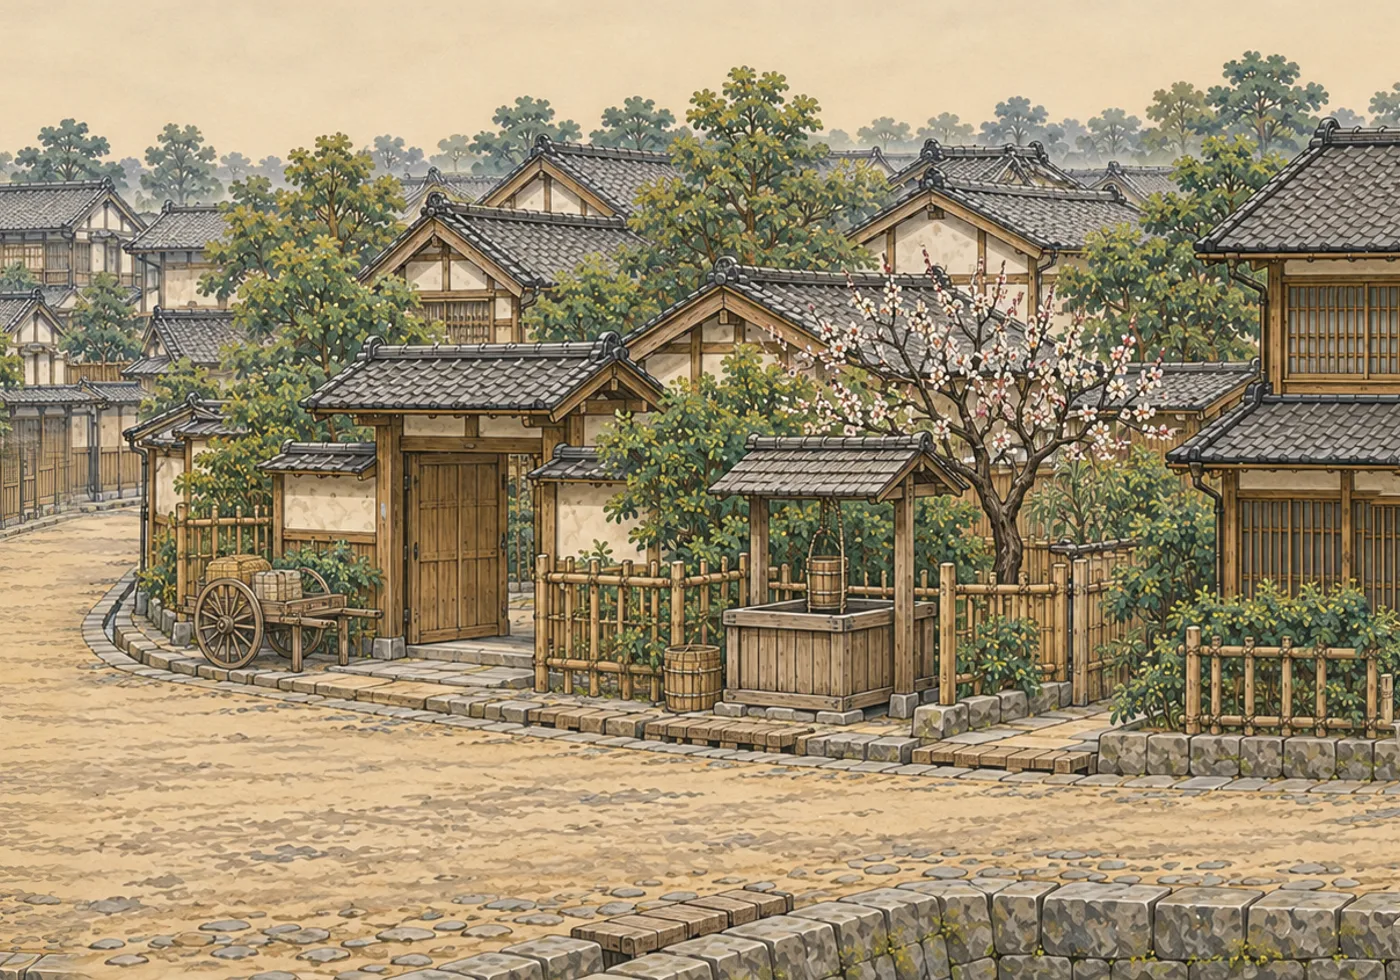
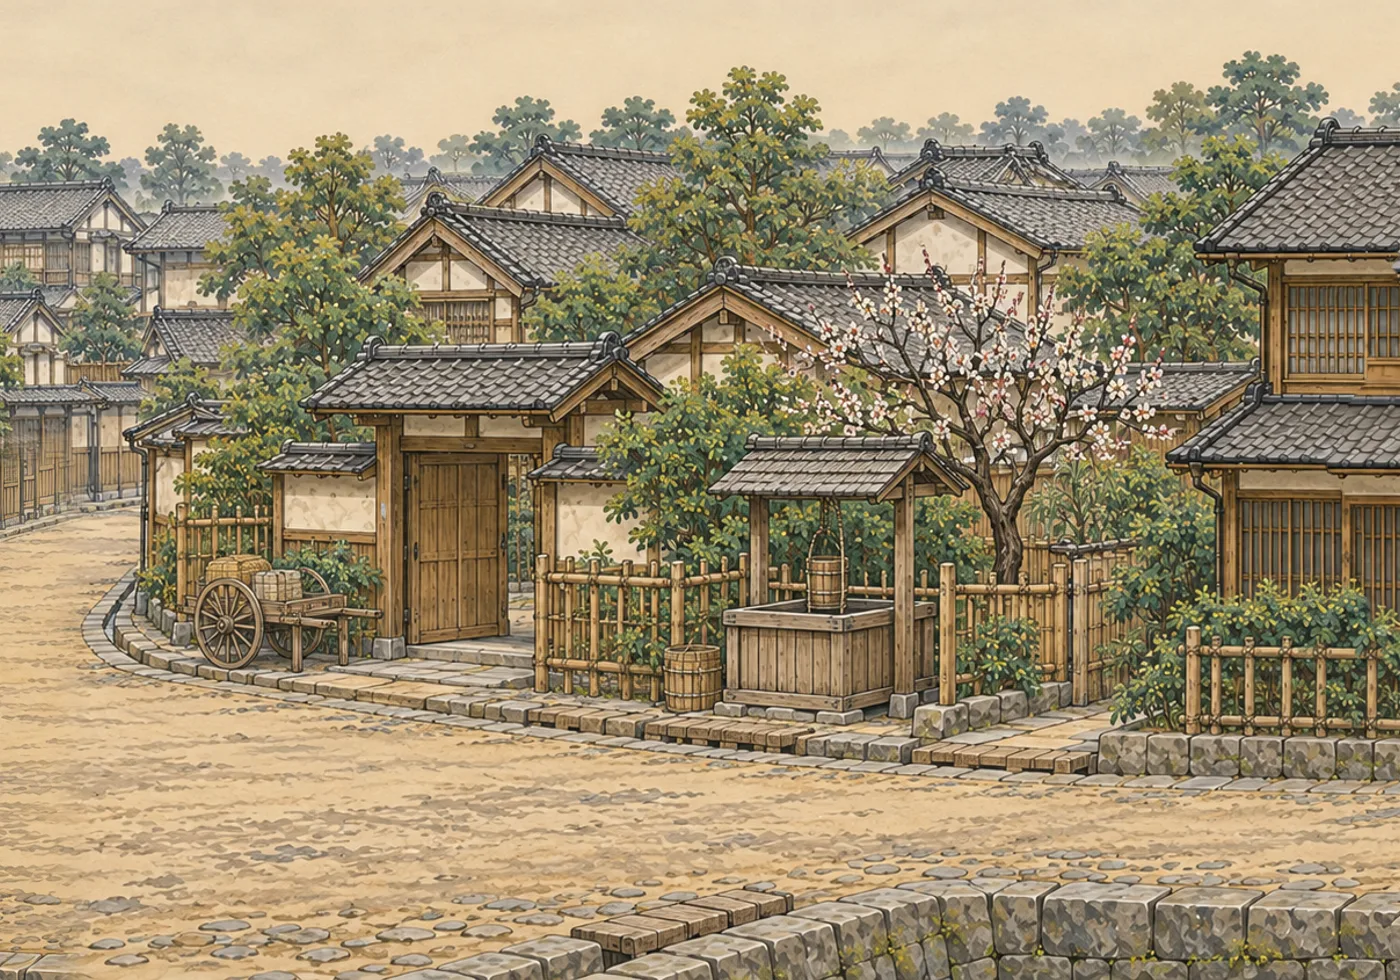
江户长卷接缝 v2：接入 Codex 的四段补稿，荷舟写生取景改为 x0=13100
- 第 03、05、11、12 段换成 Codex 的 v2 补稿（codex/painted-worlds-art ba94ac8）。
  - 桥头|03、11|12：直接用 v2。
  - 04|05：v2 加上 v1 的路面修补带（消除切线两侧路面色差）。
  - 10|11：v2 加一次新的局部重绘（前排路沿连贯）。
- 改动 9 张街景图，总体积 4.69 MB → 4.50 MB；人物脚点和路人仍在路面上。
- 柳と荷舟写生取景改为 Codex 建议的 x0=13100。
- 记录与对比图：docs/painted-worlds/art/edo/seams-v2/。

Claude-Session: https://claude.ai/code/session_017B9khwgPhjnf7esrFV7VAS

Changed region(s): [[0.9521, 0.2449, 1.0, 0.5204], [0.9829, 0.6122, 1.0, 0.7653]]

diff --git a/apps/qingming-edo/src/content/world.ts b/apps/qingming-edo/src/content/world.ts
@@ -270,7 +270,7 @@ export const PAGE_TITLES: Record<string, string> = {
  * Ordered from the bridge (right) to the quiet end (left).
  */
 export const SKETCHES = [
-  { id: 'boat', spots: ['boat', 'willow'], title: '柳と荷舟', place: '橋のたもと', view: { x0: 13020, y0: 150, w: 420 }, comment: '石垣の重さと、舟の軽さ。並べると、川の流れが見えてくる。' },
+  { id: 'boat', spots: ['boat', 'willow'], title: '柳と荷舟', place: '橋のたもと', view: { x0: 13100, y0: 150, w: 420 }, comment: '石垣の重さと、舟の軽さ。並べると、川の流れが見えてくる。' },
   { id: 'well', spots: ['well', 'plum'], title: '井戸と梅', place: '小路の井戸', view: { x0: 10300, y0: 150, w: 420 }, comment: '井戸は町の台所だ。人がいなくても、人の朝が描ける。' },
   { id: 'cooper', spots: ['cooper', 'pottery'], title: '桶屋の店先', place: '桶屋と瀬戸物屋', view: { x0: 4110, y0: 150, w: 420 }, comment: '桶の箍を一本ずつ数えたな。その根気が線に出ている。' },
   { id: 'jetty', spots: ['jetty', 'willow2'], title: '河岸の小舟', place: '堀の河岸', view: { x0: 5160, y0: 130, w: 420 }, comment: '水は描かずに、杭と舟で見せる。よく分かっている。' },

diff --git a/docs/painted-worlds/qingming-edo/素材台帳.md b/docs/painted-worlds/qingming-edo/素材台帳.md
@@ -5,7 +5,7 @@
 | 素材 | 場所 | 由来 | 利用条件 | 状態 |
 | --- | --- | --- | --- | --- |
 | 一頁目「風のいたずら」の構図 6 種（働く手／店先／通りの往来 × 近景／全景）、題箋 3 種、落款「見習」 | `scene/painted.tsx` の `KAZE_VIEWS`、`scene/PageArt.tsx` | 構図は Codex の長巻からの切り出しと立ち絵の配置（Claude）。題箋・落款は Claude がコードで作図、文字は SVG の文字層 | 長巻と同じ／リポジトリのライセンス | 線描の旧構図は削除（2026-11-01） |
-| 通り全体の精絵（14 区間、x 0–14000） | `apps/qingming-edo/src/assets/art/street-{0..13}.webp`（各 1400×980、計約 4.6 MB、表示区間と前後だけ読込） | **Codex** が内蔵 image_gen で制作（`codex/painted-worlds-art` 92116b7 の `docs/painted-worlds/art/edo-by-codex/`、母稿と区間 03–14）。Claude が manifest の位置で配置し、重なり部分を最小差異の切れ目で接合、全巻を左右反転（桟橋が右） | 生成サービスのアカウント条項に従う。館蔵画像は入力していない | AI 生成の制作素材。接合の段差 4 か所を Codex に補絵依頼済み |
+| 通り全体の精絵（14 区間、x 0–14000） | `apps/qingming-edo/src/assets/art/street-{0..13}.webp`（各 1400×980、計約 4.6 MB、表示区間と前後だけ読込） | **Codex** が内蔵 image_gen で制作（`codex/painted-worlds-art` 92116b7 の `docs/painted-worlds/art/edo-by-codex/`、母稿と区間 03–14）。Claude が manifest の位置で配置し、重なり部分を最小差異の切れ目で接合、全巻を左右反転（桟橋が右） | 生成サービスのアカウント条項に従う。館蔵画像は入力していない | AI 生成の制作素材。接合 4 か所は Codex の補絵 v2（第 03・05・11・12 段）に差し替え、2 か所に Claude の局部補修を重ねた（`docs/painted-worlds/art/edo/seams-v2/`） |
 | 遠景 | なし（Codex の絵に遠景が描き込まれている） | — | — | 独立した遠景層は未制作 |
 | 主要人物 6 人の立ち絵（各三姿態、90 単位） | `apps/qingming-edo/src/assets/art/{seita,sokichi,okon,kisuke,oharu,kinji}-*.webp`（各 7–25 KB、透明） | 同上。一人三姿態を一枚で生成し、透明の隙間（重なる場合は連結成分）で切り分け | 同上 | AI 生成の参考素材 |
 | 写生の頁 7 枚 | `content/world.ts` の `SKETCHES`（長巻からの切り出し範囲）、`scene/painted.tsx` の `PaintedPageScene` | Codex の長巻（上の行）を Claude が構図として切り出し、時間帯の色を SVG フィルターで加える | 長巻と同じ | 新しい画像ファイルは増えない |

diff --git a/docs/painted-worlds/art/edo/seams-v2/README.md b/docs/painted-worlds/art/edo/seams-v2/README.md
@@ -1,0 +1,15 @@
+# 江户长卷接缝 v2（2026-11-01）
+
+把 Codex 的接缝补稿 v2（`codex/painted-worlds-art` ba94ac8：第 03、05、11、12 段整段重画左缘）接入运行时长卷，替换 v1 的大部分修补。拼接方式与 v1 相同（`cx-build.cjs`：按 manifest 摆放、最小差异切线、整卷镜像），四段的尺寸和 sourceWindow 都与 v1 一致。
+
+| 接缝（镜像后约 x） | v1 | v2 采用 |
+| --- | --- | --- |
+| 桥头\|03（≈12000） | Claude 局部重绘，留有模糊带 | **v2 原样**：石沿自然衔接，没有模糊带 |
+| 04\|05（≈9964） | Claude 局部重绘，上方篱笆块不自然 | **v2 加 v1 的路面修补带**：v2 的切线两侧路面有色差（竖向亮带），加宽羽化会在后巷路沿出现重影，所以只把 v1 修补的路面带（y≥430，宽 200 px）叠上去 |
+| 10\|11（≈4034） | Claude 局部重绘，墙面变成大片石墙 | **v2 加一次新的局部重绘**（`s10-s11.json`，y≥700，宽 260 px）：v2 上方篱笆和木桶更好，但前排大路沿有半块高的错位，重绘后连贯 |
+| 11\|12（≈3007） | 两次重绘都更差，改用前景板车遮挡 | **v2 原样**：已自然连贯；板车道具作为街景保留 |
+
+- 余下的小问题：10\|11 中排的小路沿在右侧有一点高低差，看起来像两段路沿，不算破绽。已告诉 Codex。
+- 检查：改动的 9 张街景图里，人物脚点和路人都在路面上（茶店、布屋、藍甕、菜園、桶屋五处截图）；江户测试 55 项与全部回归脚本无错误。
+- 同时把「柳と荷舟」写生的取景改为 Codex 建议的 x0=13100，让荷舟完整入画。
+- `compare-*.webp`：每处接缝的三张对比（原始 v1 / Claude v1 修补 / Codex v2）。
